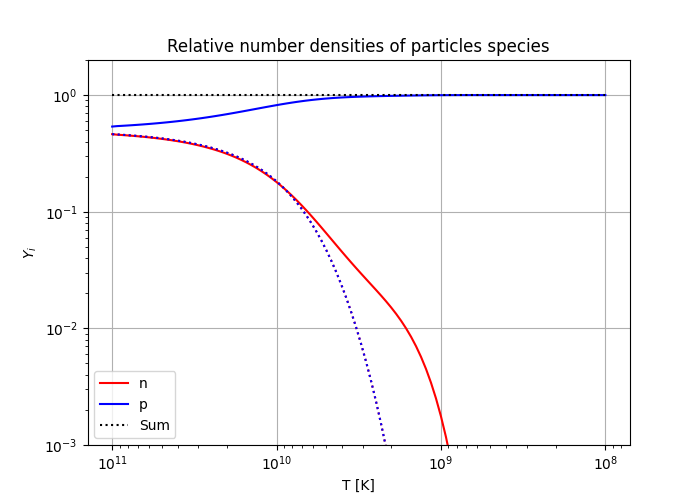
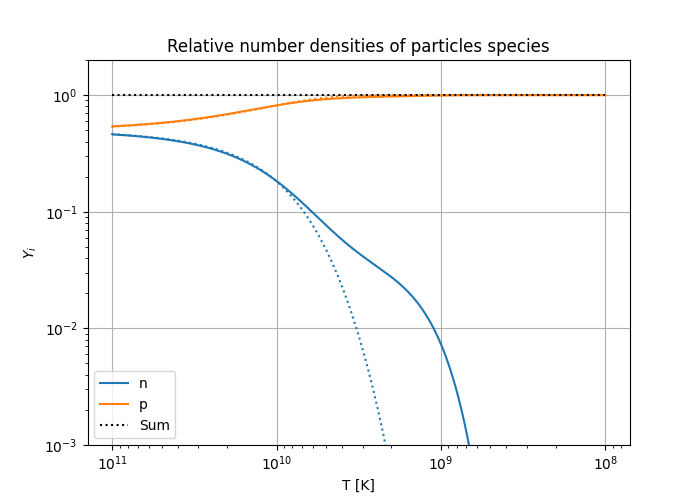
fixed bugs and the plot is still not 100% correct

diff --git a/Projects/Project 2/scripts/bbn.py b/Projects/Project 2/scripts/bbn.py
@@ -40,16 +40,6 @@ class BBN:
             "Be7",
         ]
         # self.mass_numbers = [1, 1, 2, 3, 3, 4, 7, 7]  # the particle atomic mass numbers  # TODO: FJERN?
-        self.colors = [
-            "r",
-            "b",
-            "g",
-            "c",
-            "m",
-            "y",
-            "k",
-            "orange",
-        ]  # colors for consistent plot colors
 
         # Initialize the reaction rates and background
         self.RR = ReactionRates()
@@ -203,7 +193,7 @@ class BBN:
         return self.T, self.Y
 
     def plot_relative_number_densities(
-        self, filename: str = None, figsize: tuple[int, int] = (7, 5)
+        self, filename: str, figsize: tuple[int, int] = (7, 5)
     ) -> None:
         """Plots the relative number densities for each species, as a function of logarithmic temperature ln(T)
 
@@ -220,28 +210,19 @@ class BBN:
             print("Warning: cannot plot before solving the ODE system.")
             return
 
-        # Make default filename
-        if not filename:
-            filename = os.path.join(
-                self.FIGURES_DIR,
-                f"f_relative_number_densities.png",
-            )
-
         fig, ax = plt.subplots(figsize=figsize)
 
         total = 0  # total sum of relative number densities
         for i, y in enumerate(self.Y):
-            # i-th color
-            col = self.colors[i]
-
             # Plot relative number density of species i
-            ax.loglog(self.T, y, col, label=self.species_labels[i])
-
-            # Plot thermal equilibrium value of species i as dotted line
-            ax.loglog(self.T, self._Y_n_equil(self.T), f"{col}:")
+            ax.loglog(self.T, y, label=self.species_labels[i])
 
             # Add to total sum
             total += y
+
+        # Plot thermal equilibrium value of neutron and proton
+        ax.loglog(self.T, self._Y_n_equil(self.T), color="C0", linestyle=":")
+        ax.loglog(self.T, self._Y_p_equil(self.T), color="C1", linestyle=":")
 
         # Finally plot the sum of the relative densities, which should always be equal to one
         ax.loglog(self.T, total, "k:", label="Sum")
@@ -262,8 +243,14 @@ if __name__ == "__main__":
     N_species = 2
     T_i = 1e11  # initial temperature [K]
     T_f = 1e8  # final temperature [K]
-    n_points = 100
+    n_points = 1001
 
-    bbn = BBN(N_species)
+    # Initialize
+    bbn = BBN(N_species, N_eff=15)
+
+    # Solve ode
     bbn.solve_ode_system(T_i, T_f, n_points)
-    bbn.plot_relative_number_densities()
+
+    # Plot
+    filename = os.path.join(bbn.FIGURES_DIR, "f_relative_number_densities.png")
+    bbn.plot_relative_number_densities(filename)
